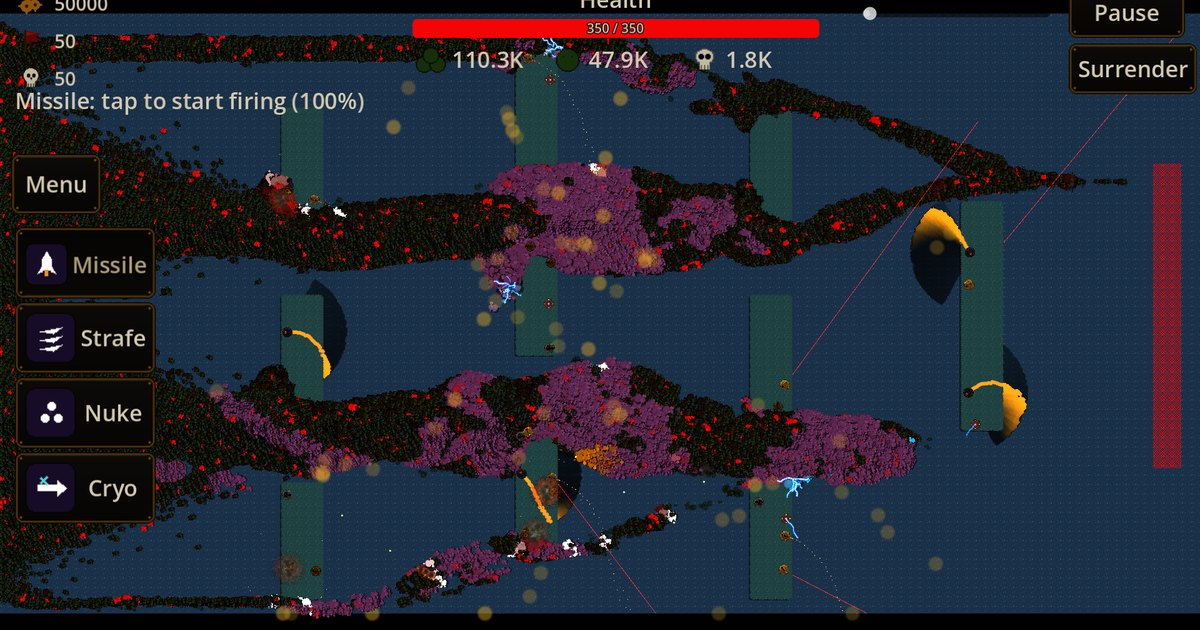
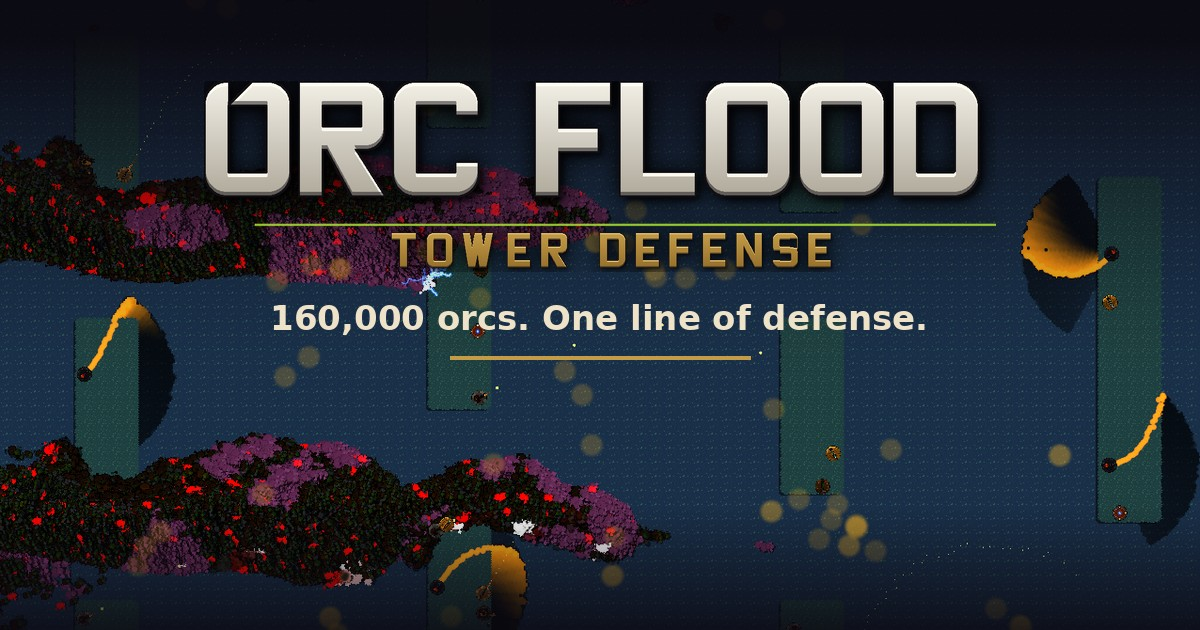
Wordmark as the brand, branded share image
The nav rendered the brand as display-font text and img/og.jpg was a raw
gameplay grab cropped to 1.91:1 — it sliced the HUD labels in half and carried
no brand at all, so every share of the site looked like a bug report.

- All four pages use the real wordmark (tools/make_logo.py in the game repo),
  height-driven so the 900px master downscales cleanly; 24px on narrow screens.
- New og.jpg: gameplay cropped INSIDE the HUD margins, scrimmed, with the
  wordmark and one line of copy.
- privacy.html and support.html had no og:image at all; both now carry full
  Open Graph + twitter:card tags derived from their own title/description.

https://claude.ai/code/session_01WHsbDeRsvo5jD6hiueUTyz

diff --git a/privacy.html b/privacy.html
@@ -6,13 +6,20 @@
   <title>Privacy Policy — Orc Flood: Tower Defense</title>
   <meta name="description" content="Orc Flood collects no personal data. No analytics, no ads, no accounts — the game runs entirely on your device.">
   <link rel="canonical" href="https://www.orcflood.com/privacy.html">
+  <meta property="og:type" content="website">
+  <meta property="og:site_name" content="Orc Flood">
+  <meta property="og:title" content="Privacy Policy — Orc Flood: Tower Defense">
+  <meta property="og:description" content="Orc Flood collects no personal data. No analytics, no ads, no accounts — the game runs entirely on your device.">
+  <meta property="og:url" content="https://www.orcflood.com/privacy.html">
+  <meta property="og:image" content="https://www.orcflood.com/img/og.jpg">
+  <meta name="twitter:card" content="summary_large_image">
   <link rel="icon" href="img/icon64.png">
   <link rel="stylesheet" href="css/site.css">
 </head>
 <body>
   <header class="site-head solid">
     <div class="wrap">
-      <a class="brand" href="./"><img src="img/icon192.png" alt="Orc Flood icon" width="44" height="44"><b>Orc Flood</b></a>
+      <a class="brand" href="./"><img src="img/icon192.png" alt="Orc Flood icon" width="44" height="44"><img class="mark" src="img/logo_wordmark.png" alt="Orc Flood" width="450" height="72"></a>
       <nav>
         <a href="privacy.html">Privacy</a>
         <a href="support.html">Support</a>

diff --git a/support.html b/support.html
@@ -6,13 +6,20 @@
   <title>Support — Orc Flood: Tower Defense</title>
   <meta name="description" content="Help and contact for Orc Flood: Tower Defense — bug reports, purchase restores, refunds.">
   <link rel="canonical" href="https://www.orcflood.com/support.html">
+  <meta property="og:type" content="website">
+  <meta property="og:site_name" content="Orc Flood">
+  <meta property="og:title" content="Support — Orc Flood: Tower Defense">
+  <meta property="og:description" content="Help and contact for Orc Flood: Tower Defense — bug reports, purchase restores, refunds.">
+  <meta property="og:url" content="https://www.orcflood.com/support.html">
+  <meta property="og:image" content="https://www.orcflood.com/img/og.jpg">
+  <meta name="twitter:card" content="summary_large_image">
   <link rel="icon" href="img/icon64.png">
   <link rel="stylesheet" href="css/site.css">
 </head>
 <body>
   <header class="site-head solid">
     <div class="wrap">
-      <a class="brand" href="./"><img src="img/icon192.png" alt="Orc Flood icon" width="44" height="44"><b>Orc Flood</b></a>
+      <a class="brand" href="./"><img src="img/icon192.png" alt="Orc Flood icon" width="44" height="44"><img class="mark" src="img/logo_wordmark.png" alt="Orc Flood" width="450" height="72"></a>
       <nav>
         <a href="privacy.html">Privacy</a>
         <a href="support.html">Support</a>

diff --git a/css/site.css b/css/site.css
@@ -57,7 +57,11 @@ a { color: var(--acc); text-decoration-thickness: 1px; text-underline-offset: 3p
 .site-head .wrap { display: flex; align-items: center; justify-content: space-between; gap: 16px; }
 .brand { display: flex; align-items: center; gap: 14px; text-decoration: none; color: var(--ink); }
 .brand img { width: 44px; height: 44px; border-radius: 10px; }
-.brand b { font-family: var(--display); font-weight: 900; font-size: 26px; letter-spacing: .02em; text-transform: uppercase; }
+/* The real wordmark (tools/make_logo.py in the game repo) replaces the
+   display-font text, so the site, the game menu and the store art all
+   show one mark. Height-driven so the 900px master downscales cleanly. */
+.brand .mark { width: auto; height: 30px; display: block; }
+@media (max-width: 640px) { .brand .mark { height: 24px; } }
 .site-head nav { display: flex; gap: 26px; font-weight: 600; font-size: 15px; }
 .site-head nav a { color: var(--muted); text-decoration: none; }
 .site-head nav a:hover { color: var(--ink); }

diff --git a/index.html b/index.html
@@ -63,7 +63,7 @@ FORM: war-office field report in the store-poster identity (brand canon).
 <body>
   <header class="site-head">
     <div class="wrap">
-      <a class="brand" href="./"><img src="img/icon192.png" alt="Orc Flood icon" width="44" height="44"><b>Orc Flood</b></a>
+      <a class="brand" href="./"><img src="img/icon192.png" alt="Orc Flood icon" width="44" height="44"><img class="mark" src="img/logo_wordmark.png" alt="Orc Flood" width="450" height="72"></a>
       <nav>
         <a href="#arsenal">Arsenal</a>
         <a href="#doctrine">Doctrine</a>

diff --git a/vs/sir-we-have-an-orc-problem/index.html b/vs/sir-we-have-an-orc-problem/index.html
@@ -47,7 +47,7 @@
 <body>
   <header class="site-head solid">
     <div class="wrap">
-      <a class="brand" href="../../"><img src="../../img/icon192.png" alt="Orc Flood icon" width="44" height="44"><b>Orc Flood</b></a>
+      <a class="brand" href="../../"><img src="../../img/icon192.png" alt="Orc Flood icon" width="44" height="44"><img class="mark" src="../../img/logo_wordmark.png" alt="Orc Flood" width="450" height="72"></a>
       <nav>
         <a href="../../#arsenal">Arsenal</a>
         <a href="../../#doctrine">Doctrine</a>
